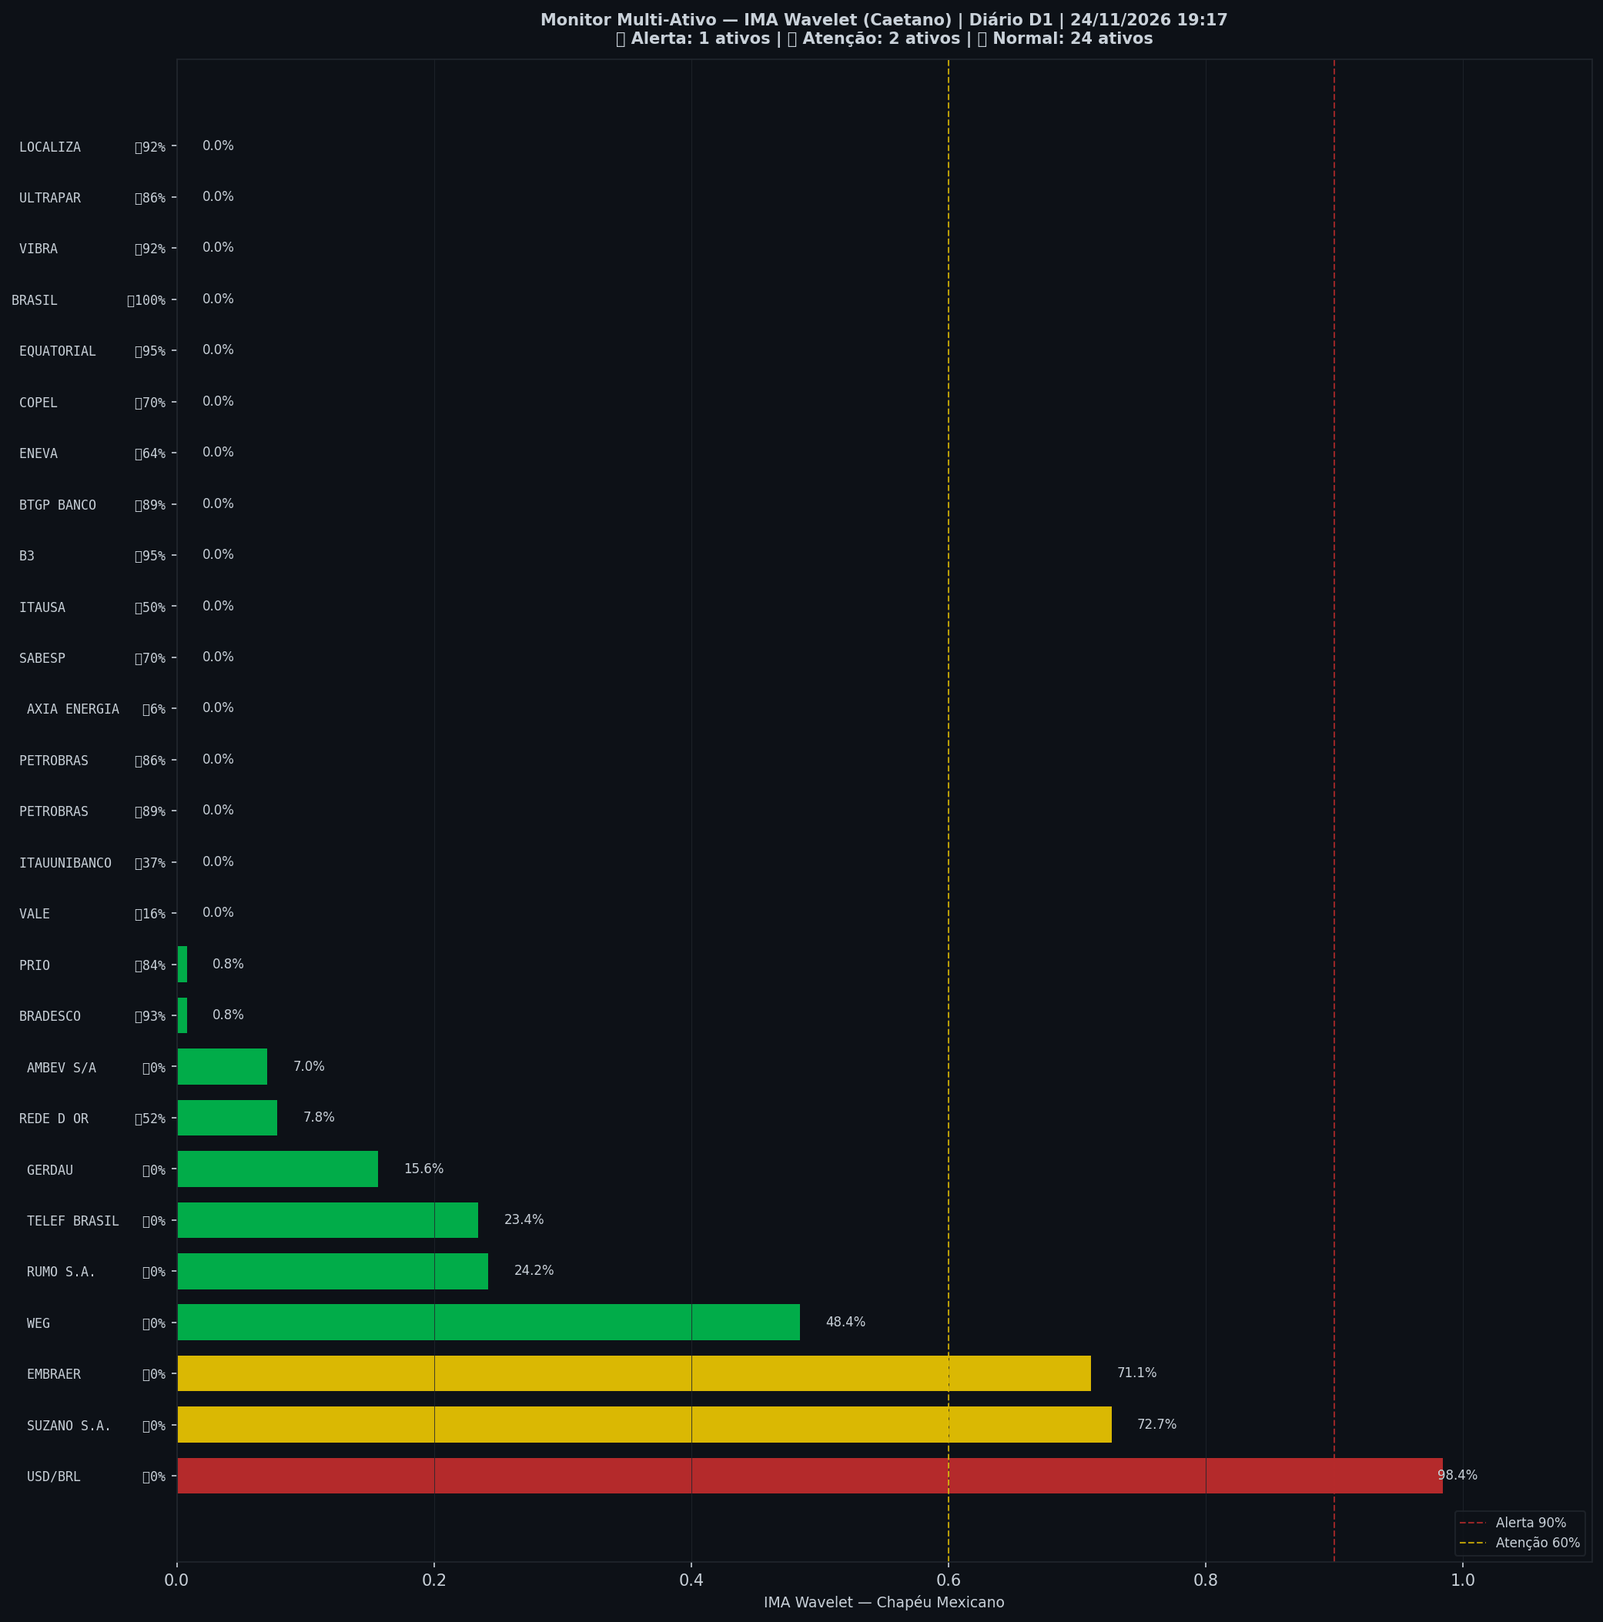
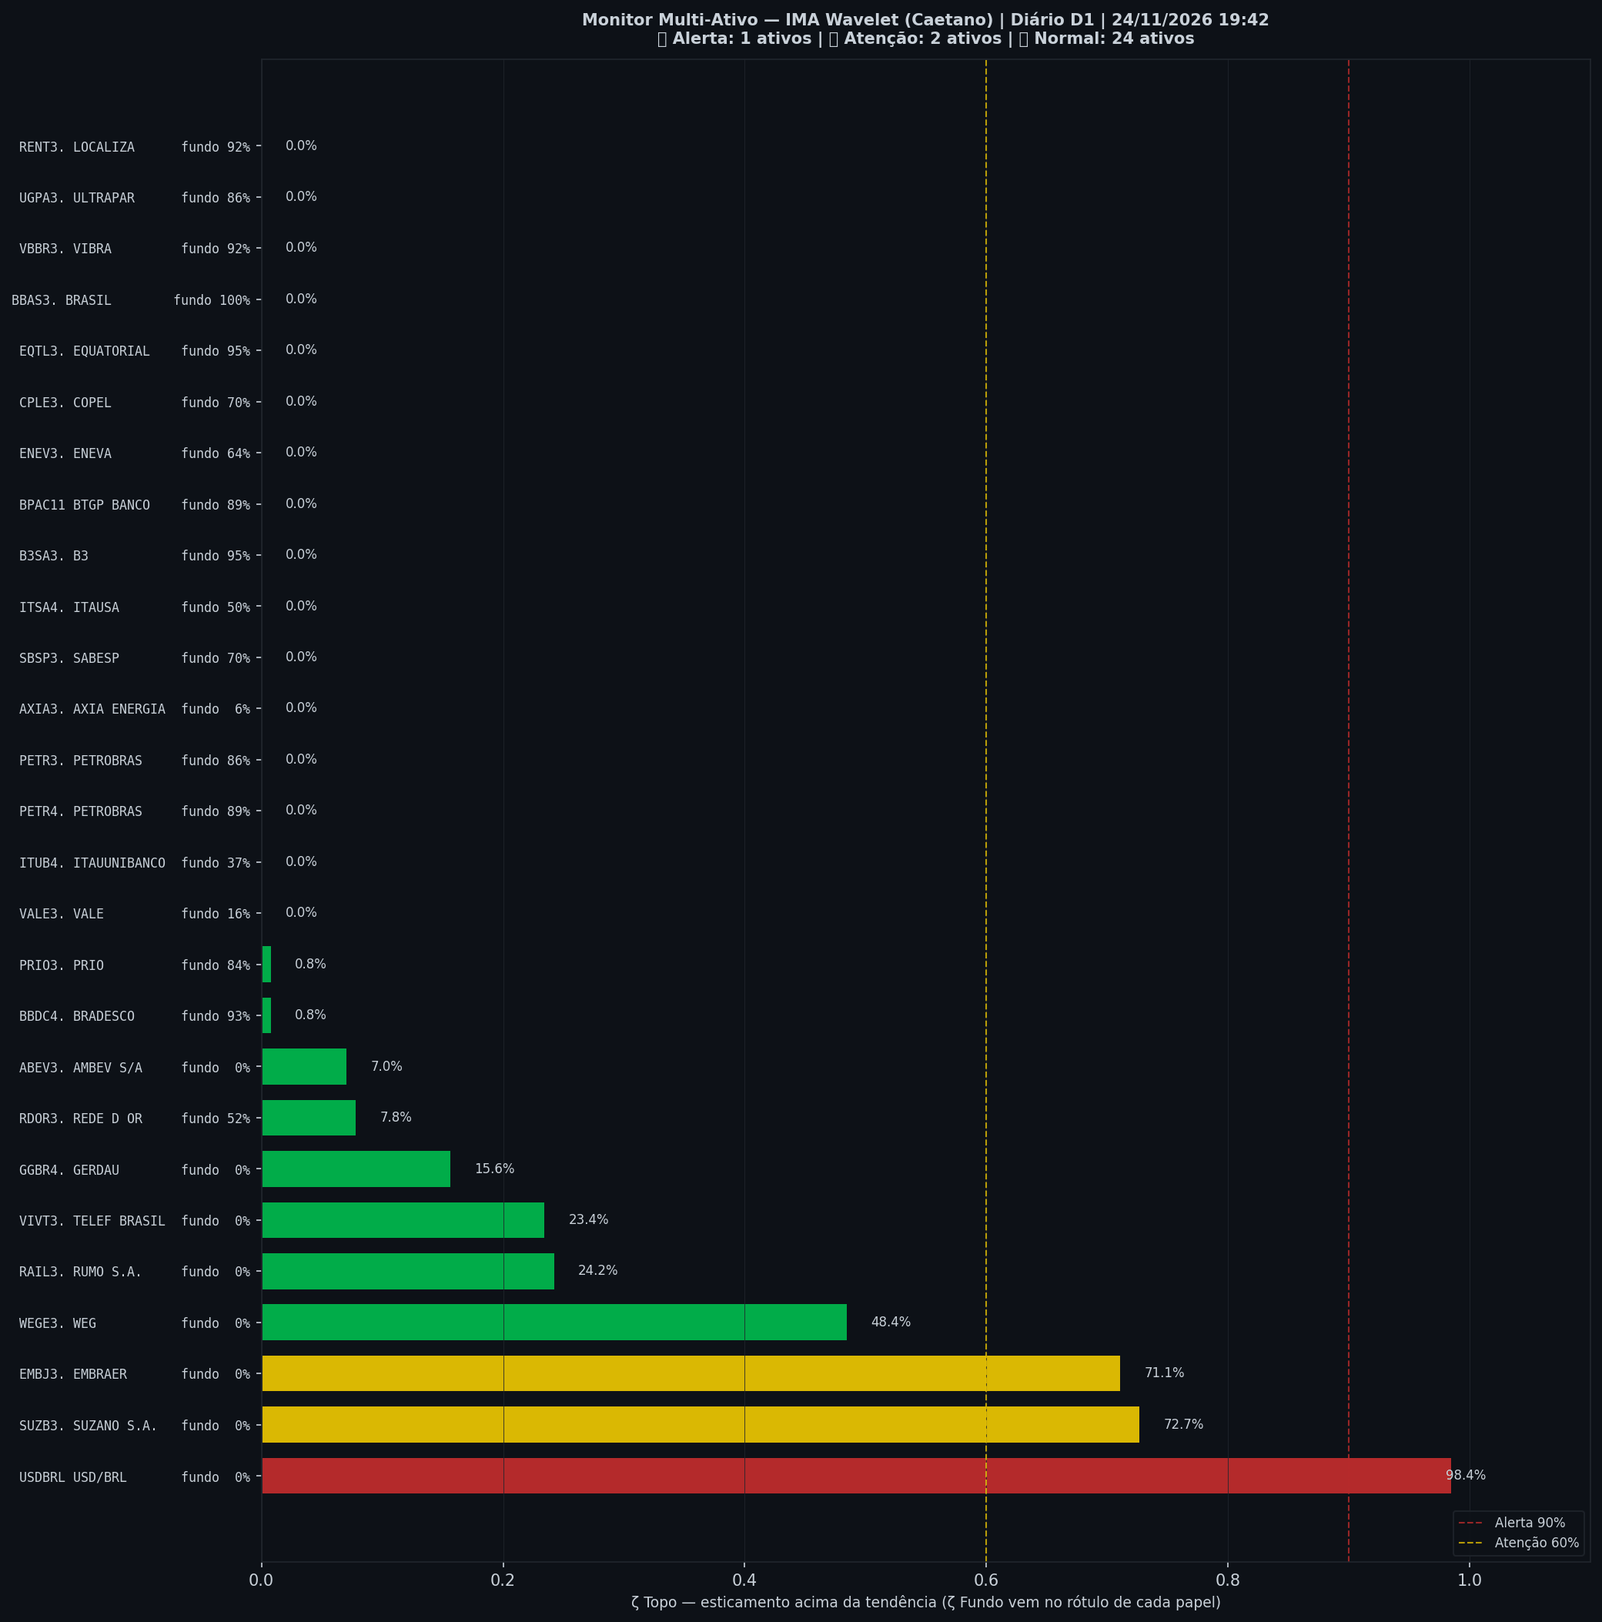
🤖 Auto: Sinal 24/11/2026 19:44

diff --git a/content/diario/2026-11-24.md b/content/diario/2026-11-24.md
@@ -7,7 +7,7 @@ tags: [diario]
 <p style="margin:.4rem 0 .2rem"><span style="display:inline-block;text-align:center;margin:0 1.8rem .2rem 0"><span style="font-size:4rem;font-weight:800;line-height:1;color:inherit">0%</span><br><span style="font-size:.95rem;opacity:.75">ζ Topo</span></span><span style="display:inline-block;text-align:center;margin:0 1.8rem .2rem 0"><span style="font-size:4rem;font-weight:800;line-height:1;color:#d29922">64%</span><br><span style="font-size:.95rem;opacity:.75">ζ Fundo</span></span></p>
 
 > [!info] Onde o mercado está no fechamento de 24/11: **🔵 Esticado para baixo**
-> `Pânico ◀────●────────────────▶ Euforia` · ζ Topo **0%** · ζ Fundo **64%**
+> `Pânico ◀────●────────────────▶ Euforia` · ζ Topo **0%** · ζ Fundo **64%** · régua = ζ Topo − ζ Fundo = **−64 p.p.**
 >
 > **O Ibovespa caiu 1,37% hoje, aos 164.090 pontos.** O preço caiu mais rápido que o normal e está abaixo da sua faixa habitual.
 >
@@ -30,10 +30,8 @@ tags: [diario]
 
 | Indicador — IMA Diário (24/11) | Valor |
 |---|---|
-| 🔴 ζ Topo — preço esticado acima da tendência | **0%** |
+| ζ Topo — preço esticado acima da tendência | **0%** |
 | 🔵 ζ Fundo — preço esticado abaixo da tendência | 🔵 **64%** |
-| 🫧 LPPL bolha — alta super-exponencial (risco de crash) | 0% |
-| 🫧 LPPL antibolha — queda super-exponencial (risco de repique) | 0% |
 | 📊 Ibovespa | 164.090 pts |
 
 ![Gráfico do sinal](../graficos/sinal_diario.png)
@@ -42,42 +40,42 @@ tags: [diario]
 
 | Data | Zona | Evento | ζ Topo | ζ Fundo | Dist. média |
 |---|---|---|---|---|---|
-| 2026-11-24 | 🟢 VERDE |  | **0%** | 🔵 **64%** | 0% |
-| 2026-11-23 | 🟢 VERDE |  | **0%** | 🔵 **63%** | 0% |
-| 2026-11-19 | 🟢 VERDE |  | **0%** | 🔵 **61%** | 2% |
-| 2026-11-18 | 🟢 VERDE |  | **0%** | **58%** | 3% |
-| 2026-11-17 | 🟢 VERDE |  | **0%** | **55%** | 5% |
-| 2026-11-16 | 🟢 VERDE |  | **0%** | **49%** | 5% |
-| 2026-11-13 | 🟢 VERDE |  | **1%** | **52%** | 9% |
-| 2026-11-12 | 🟢 VERDE |  | **1%** | **51%** | 7% |
-| 2026-11-11 | 🟢 VERDE |  | **0%** | **48%** | 8% |
-| 2026-11-10 | 🟢 VERDE | 🌱 | **0%** | **48%** | 7% |
-| 2026-11-09 | 🟢 VERDE |  | **0%** | 🔪 **100%** | 9% |
-| 2026-11-06 | 🟢 VERDE |  | **0%** | 🔪 **100%** | 4% |
-| 2026-11-05 | 🟢 VERDE |  | **0%** | 🔪 **99%** | 3% |
-| 2026-11-04 | 🟢 VERDE |  | **0%** | 🔪 **100%** | 3% |
-| 2026-11-03 | 🟢 VERDE | 🔪 | **0%** | 🔪 **95%** | 2% |
-| 2026-10-30 | 🟢 VERDE |  | **0%** | 🔵 **66%** | 4% |
-| 2026-10-29 | 🟢 VERDE |  | **4%** | **23%** | 4% |
-| 2026-10-28 | 🟢 VERDE | 📉 | **27%** | **14%** | 6% |
-| 2026-10-27 | 🟡 AMARELO |  | **50%** | **9%** | 15% |
-| 2026-10-26 | 🟡 AMARELO |  | 🟡 **66%** | **3%** | 18% |
-| 2026-10-23 | 🟡 AMARELO |  | 🟡 **79%** | **0%** | 77% |
-| 2026-10-22 | 🟡 AMARELO |  | 🟡 **78%** | **0%** | 76% |
-| 2026-10-21 | 🟡 AMARELO |  | 🟡 **77%** | **1%** | 81% |
-| 2026-10-20 | 🟡 AMARELO |  | 🟡 **77%** | **1%** | 85% |
-| 2026-10-19 | 🟡 AMARELO |  | 🟡 **77%** | **0%** | 80% |
-| 2026-10-16 | 🟡 AMARELO |  | 🟡 **77%** | **0%** | 81% |
-| 2026-10-15 | 🟡 AMARELO |  | 🟡 **75%** | **0%** | 80% |
-| 2026-10-14 | 🟡 AMARELO |  | 🟡 **74%** | **1%** | 84% |
-| 2026-10-13 | 🟡 AMARELO |  | 🟡 **74%** | **0%** | 85% |
-| 2026-10-09 | 🟡 AMARELO |  | 🟡 **72%** | **0%** | 87% |
+| 2026-11-24 | 🟢 VERDE |  | **0%** | 🔵 **64%** | 🔵 −7,5% (p0) |
+| 2026-11-23 | 🟢 VERDE |  | **0%** | 🔵 **63%** | 🔵 −7,1% (p0) |
+| 2026-11-19 | 🟢 VERDE |  | **0%** | 🔵 **61%** | 🔵 −6,2% (p2) |
+| 2026-11-18 | 🟢 VERDE |  | **0%** | **58%** | 🔵 −5,6% (p3) |
+| 2026-11-17 | 🟢 VERDE |  | **0%** | **55%** | 🔵 −4,3% (p5) |
+| 2026-11-16 | 🟢 VERDE |  | **0%** | **49%** | 🔵 −4,5% (p5) |
+| 2026-11-13 | 🟢 VERDE |  | **1%** | **52%** | 🔵 −2,7% (p9) |
+| 2026-11-12 | 🟢 VERDE |  | **1%** | **51%** | 🔵 −3,3% (p7) |
+| 2026-11-11 | 🟢 VERDE |  | **0%** | **48%** | 🔵 −2,8% (p8) |
+| 2026-11-10 | 🟢 VERDE | 🌱 | **0%** | **48%** | 🔵 −3,2% (p7) |
+| 2026-11-09 | 🟢 VERDE |  | **0%** | 🔪 **100%** | 🔵 −2,6% (p9) |
+| 2026-11-06 | 🟢 VERDE |  | **0%** | 🔪 **100%** | 🔵 −4,7% (p4) |
+| 2026-11-05 | 🟢 VERDE |  | **0%** | 🔪 **99%** | 🔵 −6,0% (p3) |
+| 2026-11-04 | 🟢 VERDE |  | **0%** | 🔪 **100%** | 🔵 −5,2% (p3) |
+| 2026-11-03 | 🟢 VERDE | 🔪 | **0%** | 🔪 **95%** | 🔵 −6,3% (p2) |
+| 2026-10-30 | 🟢 VERDE |  | **0%** | 🔵 **66%** | 🔵 −4,9% (p4) |
+| 2026-10-29 | 🟢 VERDE |  | **4%** | **23%** | 🔵 −4,1% (p4) |
+| 2026-10-28 | 🟢 VERDE | 📉 | **27%** | **14%** | 🔵 −3,0% (p6) |
+| 2026-10-27 | 🟡 AMARELO |  | **50%** | **9%** | −0,3% (p15) |
+| 2026-10-26 | 🟡 AMARELO |  | 🟡 **66%** | **3%** | +0,3% (p18) |
+| 2026-10-23 | 🟡 AMARELO |  | 🟡 **79%** | **0%** | +16,5% (p77) |
+| 2026-10-22 | 🟡 AMARELO |  | 🟡 **78%** | **0%** | +16,1% (p76) |
+| 2026-10-21 | 🟡 AMARELO |  | 🟡 **77%** | **1%** | +17,7% (p81) |
+| 2026-10-20 | 🟡 AMARELO |  | 🟡 **77%** | **1%** | +18,9% (p85) |
+| 2026-10-19 | 🟡 AMARELO |  | 🟡 **77%** | **0%** | +17,2% (p80) |
+| 2026-10-16 | 🟡 AMARELO |  | 🟡 **77%** | **0%** | +17,6% (p81) |
+| 2026-10-15 | 🟡 AMARELO |  | 🟡 **75%** | **0%** | +17,1% (p80) |
+| 2026-10-14 | 🟡 AMARELO |  | 🟡 **74%** | **1%** | +18,5% (p84) |
+| 2026-10-13 | 🟡 AMARELO |  | 🟡 **74%** | **0%** | +18,9% (p85) |
+| 2026-10-09 | 🟡 AMARELO |  | 🟡 **72%** | **0%** | +20,4% (p87) |
 
-<small>Destaques: 🟡 ≥ 60% · 🔴 ≥ 90% (ζ Topo) · 🔵 ≥ 60% · 🔪 ≥ 90% (ζ Fundo)<br>**Dist. média**: percentil da distância do preço à média das 252 barras anteriores — a mesma janela do ζ. 100% = mais longe acima do que em qualquer momento das últimas 500 barras; 0% = mais longe abaixo; 50% = distância típica. É a régua simples contra a qual o ζ precisa provar que acrescenta algo.</small>
+<small>Destaques: 🟡 ≥ 60% · 🔴 ≥ 90% (ζ Topo) · 🔵 ≥ 60% · 🔪 ≥ 90% (ζ Fundo)<br>**Dist. média**: a distância do preço à média das 252 barras anteriores (a mesma janela do ζ) e, entre parênteses, o percentil dessa distância nas últimas 500 barras. `−8,2% (p0)` = o preço está 8,2% **abaixo** da média e nunca esteve tão abaixo em toda a janela. 🔵 ≤ p10 · 🔴 ≥ p90. É a régua simples contra a qual o ζ precisa provar que acrescenta algo.</small>
 
 ## Monitor Multi-Ativo
 
-**11% dos ativos em tensão** (1🔴 2🟡) · **14 com ζ Fundo alto** · leitura de 24/11 19:17 BRT, pregão — quanto mais ativos disparam juntos, mais confiável o sinal.
+**11% dos ativos em tensão** (1🔴 2🟡) · **14 com ζ Fundo alto** · leitura de 24/11 19:42 BRT, pregão — quanto mais ativos disparam juntos, mais confiável o sinal.
 
 > [!danger] Em destaque no multi-ativo
 > 🔪 **BRASIL** ζ Fundo 100% · 🔴 **USD/BRL** ζ Topo 98% · 🔪 **B3** ζ Fundo 95% · 🔪 **EQUATORIAL** ζ Fundo 95% · 🔪 **BRADESCO** ζ Fundo 93% · 🔪 **VIBRA** ζ Fundo 92% · 🔪 **LOCALIZA** ζ Fundo 92% · 🔵 **PETROBRAS** ζ Fundo 89% · 🔵 **BTGP BANCO** ζ Fundo 89% · 🔵 **PETROBRAS** ζ Fundo 86% · 🔵 **ULTRAPAR** ζ Fundo 86% · 🔵 **PRIO** ζ Fundo 84% · 🟡 **SUZANO S.A.** ζ Topo 73% · 🟡 **EMBRAER** ζ Topo 71% · 🔵 **SABESP** ζ Fundo 70% · 🔵 **COPEL** ζ Fundo 70% · 🔵 **ENEVA** ζ Fundo 64%
@@ -116,7 +114,7 @@ tags: [diario]
 
 ![Monitor multi-ativo](../graficos/multi_diario.png)
 
-*Página atualizada em 24/11/2026 19:17 BRT (leitura da barra de 2026-11-24 BRT).*
+*Página atualizada em 24/11/2026 19:42 BRT (leitura da barra de 2026-11-24 BRT).*
 
 > [!warning] O que este indicador não faz
 > Medido em 5 anos de Ibovespa, o ζ **não antecipa** topos nem fundos: a capacidade de separar o que sobe do que cai ficou em 0,49–0,52, e 0,50 é moeda jogada ao ar. Ele descreve o estado de agora; não é aviso do que vem. As zonas verde/amarelo/vermelho continuam na página como descrição desse estado — **não as use como sinal de entrada ou saída**.

diff --git a/content/index.md b/content/index.md
@@ -7,20 +7,23 @@ tags: [home]
 
 **As ondas do mercado, explicadas.** Leitura do Ibovespa com estatística de 26 anos, baseada no trabalho de pesquisadores e traders reconhecidos e adaptada por Jarbas Daniel da Costa.
 
-*Última atualização: 24/11/2026 19:17 BRT · Intraday 15min · preço da corretora, tempo real*
+*Última atualização: 24/11/2026 19:42 BRT · Diário D1*
 
-> [!success] Onde o mercado está agora (24/11 18:00, candles de 15 min): **🟢 Sem esticamento**
-> `Pânico ◀─────────●───────────▶ Euforia` · ζ Topo **1%** · ζ Fundo **8%**
+> [!info] Onde o mercado está no fechamento de 24/11: **🔵 Esticado para baixo**
+> `Pânico ◀────●────────────────▶ Euforia` · ζ Topo **0%** · ζ Fundo **64%** · régua = ζ Topo − ζ Fundo = **−64 p.p.**
 >
-> **O Ibovespa cai 1,37% agora, aos 164.090 pontos.** O preço não fez movimento brusco em relação à sua tendência, nem para cima nem para baixo. Isso fala da velocidade do movimento, não do nível do preço.
+> **O Ibovespa caiu 1,37% hoje, aos 164.090 pontos.** O preço caiu mais rápido que o normal e está abaixo da sua faixa habitual.
 >
 > *Leitura educacional baseada em 26 anos de dados. Não é recomendação de investimento.*
+
+> [!warning] ⚠ Nível alto agora — IMA Diário (24/11)
+> - 🔵 **ζ Fundo 64%** — preço esticado abaixo da tendência
 
 ## Agora
 
 | Módulo | Agora | |
 |---|---|---|
-| 🌊 **Sinal IMA** | 🟢 VERDE · 🟢 calmo · ζ Topo 1% | [relatório](intraday/2026-11-24) |
+| 🌊 **Sinal IMA** | 🟢 VERDE · 🔵 esticado para baixo · ζ Topo 0% | [relatório](diario/2026-11-24) |
 | 📈 **Tendência MME9** | Diário — fora<br>Semanal — fora | [abrir](operacoes/tendencia) |
 | 🎯 **Entradas do método** | — nenhuma regra com setup ativo | [abrir](operacoes/entradas) |
 | 📍 **Sinais** | hoje: nenhum sinal | [abrir](sinais-topo-fundo/) |
@@ -38,29 +41,40 @@ tags: [home]
 
 *[Linha do tempo completa](linha-do-tempo/) — todo sinal, ordem, stop e aviso, do mais recente para o mais antigo. ⚡ = vale durante o pregão · ⏱ = no fechamento.*
 
+> [!note] 🧭 IMA Diário · situação: 🌱 **Fundo se desfazendo**
+> 📚 só contexto: o pânico passou; sem vantagem estatística confirmada para comprar só por isso
+>
+> Eventos recentes: 🌱 10/11 Fundo se desfazendo · 🔪 03/11 Queda forte em curso · 📉 28/10 Esticamento desinflando · 📉 16/09 Esticamento desinflando
+>
+> *Leitura educacional baseada em 26 anos de dados, não recomendação. [Como usar](metodologia/crise#3-como-usar-na-prática).*
+
 > [!info]- 🌊 Detalhes do Sinal IMA (indicadores e últimos 7 pregões)
-> > [!success] IMA Intraday · 15 min (24/11 18:00): 🟢 **VERDE** — ζ Topo **1%** · ＝ +0 p.p. vs leitura anterior
-> > `░░░░░░░░░░░░░░░░░░░░` **1%**
-> > Sem esticamento brusco em relação à tendência.
+> > [!info] IMA Diário (24/11): 🔵 **ESTICADO P/ BAIXO** — ζ Fundo **64%** · ζ Topo 0% · ＝ +0 p.p. vs leitura anterior
+> > `█████████████░░░░░░░` **64%**
+> > Atenção — preço esticado abaixo da tendência. Medido por episódio, esta faixa não teve retorno melhor que um dia qualquer: +0,18% em 60 pregões contra +3,34% da base.
 >
 >
-> | Indicador — IMA Intraday · 15 min (24/11 18:00) | Valor |
+> | Indicador — IMA Diário (24/11) | Valor |
 > |---|---|
-> | 🔴 ζ Topo — preço esticado acima da tendência | **1%** |
-> | 🔵 ζ Fundo — preço esticado abaixo da tendência | 8% |
-> | 🫧 LPPL bolha — alta super-exponencial (risco de crash) | 0% |
-> | 🫧 LPPL antibolha — queda super-exponencial (risco de repique) | 0% |
+> | ζ Topo — preço esticado acima da tendência | **0%** |
+> | 🔵 ζ Fundo — preço esticado abaixo da tendência | 🔵 **64%** |
 > | 📊 Ibovespa | 164.090 pts |
 >
-> **Multi-ativo:** 0% em tensão (0🔴 1🟡 de 27 ativos)
+> **Multi-ativo:** 11% em tensão (1🔴 2🟡 de 27 ativos)
 >
 > **Últimos 7 pregões**
 >
 > | Data | Zona | ζ Topo | ζ Fundo | Dist. média |
 > |---|---|---|---|---|
-> | [24/11/2026](intraday/2026-11-24) | 🟢 VERDE | **1%** | **8%** | 27% |
+> | [24/11/2026](diario/2026-11-24) | 🟢 VERDE | **0%** | 🔵 **64%** | 🔵 −7,5% (p0) |
+> | [23/11/2026](diario/2026-11-23) | 🟢 VERDE | **0%** | 🔵 **63%** | 🔵 −7,1% (p0) |
+> | [19/11/2026](diario/2026-11-19) | 🟢 VERDE | **0%** | 🔵 **61%** | 🔵 −6,2% (p2) |
+> | [18/11/2026](diario/2026-11-18) | 🟢 VERDE | **0%** | **58%** | 🔵 −5,6% (p3) |
+> | [17/11/2026](diario/2026-11-17) | 🟢 VERDE | **0%** | **55%** | 🔵 −4,3% (p5) |
+> | [16/11/2026](diario/2026-11-16) | 🟢 VERDE | **0%** | **49%** | 🔵 −4,5% (p5) |
+> | [13/11/2026](diario/2026-11-13) | 🟢 VERDE | **1%** | **52%** | 🔵 −2,7% (p9) |
 >
-> <small>Destaques: 🟡 ≥ 60% · 🔴 ≥ 90% (ζ Topo) · 🔵 ≥ 60% · 🔪 ≥ 90% (ζ Fundo)<br>**Dist. média**: percentil da distância do preço à média das 252 barras anteriores — a mesma janela do ζ. 100% = mais longe acima do que em qualquer momento das últimas 500 barras; 0% = mais longe abaixo; 50% = distância típica. É a régua simples contra a qual o ζ precisa provar que acrescenta algo.</small>
+> <small>Destaques: 🟡 ≥ 60% · 🔴 ≥ 90% (ζ Topo) · 🔵 ≥ 60% · 🔪 ≥ 90% (ζ Fundo)<br>**Dist. média**: a distância do preço à média das 252 barras anteriores (a mesma janela do ζ) e, entre parênteses, o percentil dessa distância nas últimas 500 barras. `−8,2% (p0)` = o preço está 8,2% **abaixo** da média e nunca esteve tão abaixo em toda a janela. 🔵 ≤ p10 · 🔴 ≥ p90. É a régua simples contra a qual o ζ precisa provar que acrescenta algo.</small>
 >
 > Os momentos úteis são as **mudanças** do ζ: 🚀 ζ Topo subindo para 30–60% (69% subiu no mês) e 🔪 ζ Fundo disparando (só 42% subiu em 3 meses). 📉 ζ Topo desinflando do 🔴 teve queda de 5% em 45% das vezes (31% num dia qualquer), mas com poucos casos. O 📉 do 🟡 e o 🌱 ficaram como contexto: não se confirmaram em 2014–2026 (revisão de 23/10/2026). [Metodologia da Sinal IMA](metodologia/crise).
 

diff --git a/content/historico.md b/content/historico.md
@@ -225,4 +225,4 @@ O risco mostrado é o **máximo do dia** — é o que importa para saber se a zo
 | 2026-07-06 | 2 | 🟢 VERDE | 39% | 39% | 0% |
 | 2026-07-03 | 1 | 🟢 VERDE | 10% | 14% | 0% |
 
-<small>Destaques: 🟡 ≥ 60% · 🔴 ≥ 90% (ζ Topo) · 🔵 ≥ 60% · 🔪 ≥ 90% (ζ Fundo)<br>**Dist. média**: percentil da distância do preço à média das 252 barras anteriores — a mesma janela do ζ. 100% = mais longe acima do que em qualquer momento das últimas 500 barras; 0% = mais longe abaixo; 50% = distância típica. É a régua simples contra a qual o ζ precisa provar que acrescenta algo.</small>
+<small>Destaques: 🟡 ≥ 60% · 🔴 ≥ 90% (ζ Topo) · 🔵 ≥ 60% · 🔪 ≥ 90% (ζ Fundo)<br>**Dist. média**: a distância do preço à média das 252 barras anteriores (a mesma janela do ζ) e, entre parênteses, o percentil dessa distância nas últimas 500 barras. `−8,2% (p0)` = o preço está 8,2% **abaixo** da média e nunca esteve tão abaixo em toda a janela. 🔵 ≤ p10 · 🔴 ≥ p90. É a régua simples contra a qual o ζ precisa provar que acrescenta algo.</small>

diff --git a/content/operacoes/ranking.md b/content/operacoes/ranking.md
@@ -56,7 +56,7 @@ description: "As regras de compra do site ordenadas pelo resultado, com treino, 
 > 
 > Operação **com 🧪** começou depois de **23/10/2026**, com as regras congeladas. É o único resultado sem nenhum ajuste ao passado, e é por ele que cada regra está sendo julgada.
 
-*Atualizado 24/11/2026 19:17 · histórico simulado com as regras congeladas em 23/10/2026 + placar ao vivo.*
+*Atualizado 24/11/2026 19:42 · histórico simulado com as regras congeladas em 23/10/2026 + placar ao vivo.*
 
 As regras de compra do site, **da que mais rendeu para a que menos rendeu**. O resultado é por operação, no índice à vista, sem custos e sem juros compostos (a soma é só a soma das operações). **Treino** = entradas de 2001 a 2013 e **teste** = 2014 em diante: uma regra só é confiável se ganhou nos dois. O único resultado sem nenhum ajuste ao histórico é o **placar ao vivo**.
 

diff --git a/content/lppl.md b/content/lppl.md
@@ -5,7 +5,7 @@ date: 2026-11-24
 
 <p style="margin:.4rem 0 0"><span style="display:inline-block;text-align:center;margin:0 1.8rem .2rem 0"><span style="font-size:4rem;font-weight:800;line-height:1;color:inherit">0%</span><br><span style="font-size:.95rem;opacity:.75">bolha</span></span><span style="display:inline-block;text-align:center;margin:0 1.8rem .2rem 0"><span style="font-size:4rem;font-weight:800;line-height:1;color:inherit">0%</span><br><span style="font-size:.95rem;opacity:.75">antibolha</span></span></p>
 
-**Leitura de 24/11/2026** · pagina gerada em 24/11/2026 19:17 BRT
+**Leitura de 24/11/2026** · pagina gerada em 24/11/2026 19:42 BRT
 
 Acima de 30% o sinal deixa de ser ruido. O LPPL **nao** decide o semaforo do site — veja a nota no fim.
 

diff --git a/content/linha-do-tempo/index.md b/content/linha-do-tempo/index.md
@@ -5,7 +5,7 @@ description: "Todo sinal, ordem, stop e aviso do Pêndulo de Mercado, do mais re
 tags: [eventos]
 ---
 
-*Atualizada 24/11/2026 19:17 BRT · a cada 15 min no pregão e às 19h.*
+*Atualizada 24/11/2026 19:42 BRT · a cada 15 min no pregão e às 19h.*
 
 Tudo o que o sistema fez ou detectou, **do mais recente para o mais antigo**: sinais de topo e fundo, ordens de compra e de venda armadas, compras, vendas, stops, avisos de 🚨 preço perto do nível e mudanças do Sinal IMA. Os **últimos 7 dias** ficam abertos; o resto, por **ano → mês → dia**.
 
